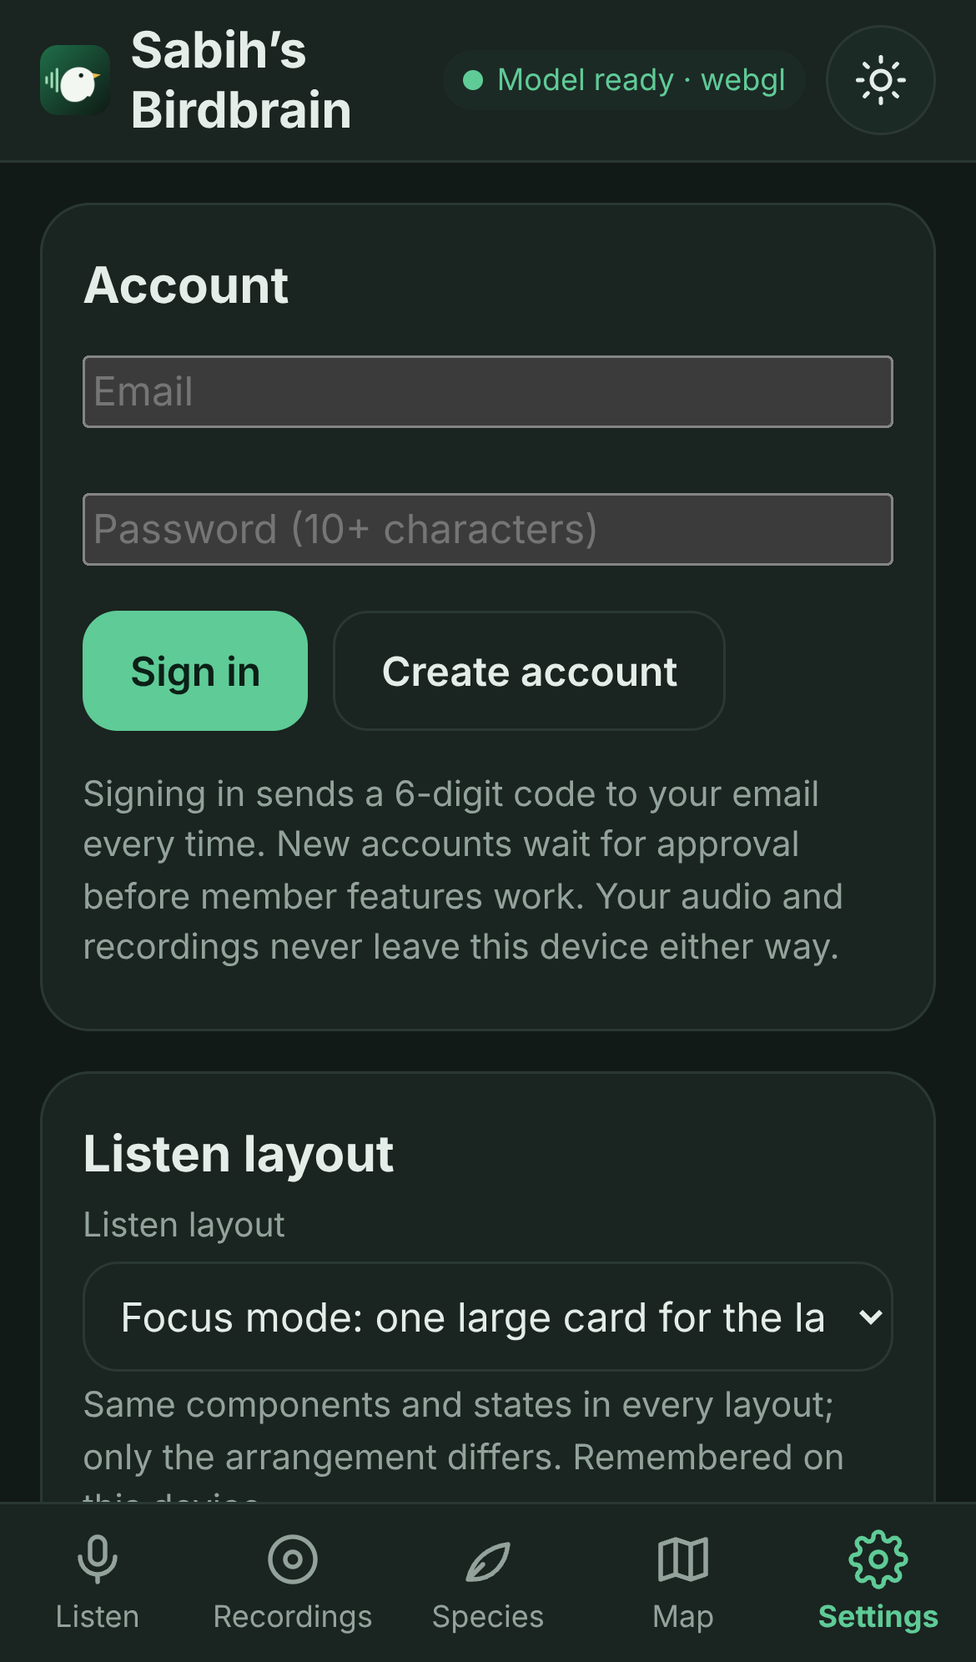
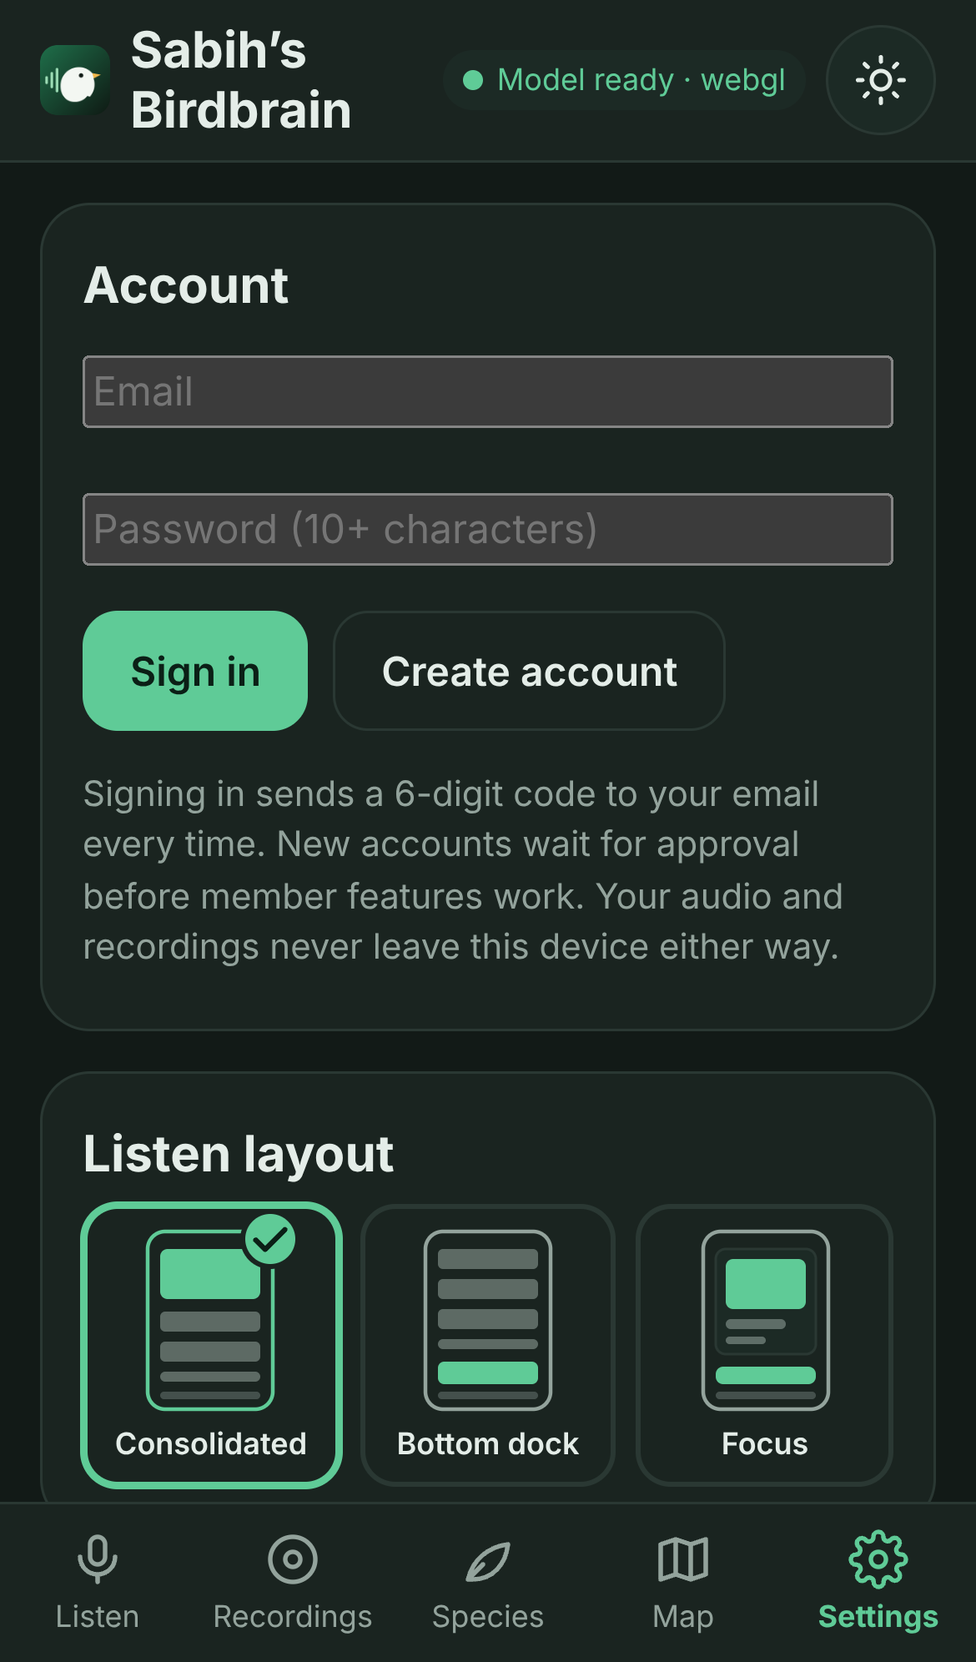
Settings: Listen layout preview-tile picker instead of the dropdown
Three tiles in one row (Consolidated, Bottom dock, Focus), each a 52×73 px
phone wireframe (inline SVG coloured only through theme tokens) plus the
layout name. The selected tile has a 3 px accent border and a check badge;
a tap switches immediately and is remembered. role="radiogroup"/"radio"
with aria-checked, roving tabindex, arrow keys with wrap-around, Home/End,
Space/Enter, 3 px --focus ring, tiles ≥ 44 px.

Height budget: the old dropdown card measured 210.59 px at 375 px on main
(efc0a2a); the picker card is 183.4 px. A Playwright test records the
baseline, asserts ≤ 1.5× it, and checks the Settings view and tiles stay
inside 320 px. The old dropdown and its helper text are gone.
DESIGN_GUIDE.md §6, DECISIONS.md #44 and the Settings screenshots in both
themes are updated.

Claude-Session: https://claude.ai/code/session_01GTz5a5AnivyyHUJ7oDDh1k

Changed region(s): [[0.0615, 0.7159, 0.8615, 0.9026]]

diff --git a/src/ui/components/layout-picker.ts b/src/ui/components/layout-picker.ts
@@ -1,0 +1,126 @@
+import type { ListenLayout } from '../../app/settings';
+import { el } from '../dom';
+
+/**
+ * Settings → Listen layout: three preview tiles in one row (Consolidated, Bottom dock, Focus),
+ * each a small phone wireframe plus the layout name. Replaces the dropdown (DECISIONS.md #44).
+ *
+ * The group is a radiogroup of radio buttons: the selected tile has aria-checked="true" and
+ * tabindex 0, the others tabindex -1 (roving tabindex); Left/Right and Up/Down move the
+ * selection, Space/Enter select the focused tile, and a tap switches at once.
+ * The wireframes are inline SVG coloured only through CSS classes and theme tokens, so they
+ * work in both themes and need no style attributes (the CSP has no 'unsafe-inline').
+ */
+
+/** `label` is the visible text (may hold a soft hyphen for 320 px screens); `name` is the accessible one. */
+export const LAYOUT_OPTIONS: ReadonlyArray<{ value: ListenLayout; name: string; label?: string; description: string }> = [
+  { value: 'consolidated', name: 'Consolidated', label: 'Consoli\u00ADdated', description: 'Panel on top, results below' },
+  { value: 'dock', name: 'Bottom dock', description: 'Results fill the screen, controls above the tabs' },
+  { value: 'focus', name: 'Focus', description: 'One large card for the latest bird' },
+];
+
+/** Phone wireframes (52×73 viewBox). Classes are coloured in styles.css: wf-frame, wf-panel, wf-row, wf-tabs. */
+const WIREFRAMES: Record<ListenLayout, string> = {
+  // Control panel block on top, result rows below, tab bar at the bottom.
+  consolidated:
+    '<rect class="wf-frame" x="1" y="1" width="50" height="71" rx="7"/>' +
+    '<rect class="wf-panel" x="6" y="8" width="40" height="20" rx="3"/>' +
+    '<rect class="wf-row" x="6" y="33" width="40" height="8" rx="2"/>' +
+    '<rect class="wf-row" x="6" y="45" width="40" height="8" rx="2"/>' +
+    '<rect class="wf-row" x="6" y="57" width="40" height="4" rx="2"/>' +
+    '<rect class="wf-tabs" x="6" y="65" width="40" height="3" rx="1.5"/>',
+  // Result rows filling the screen, a control bar just above the tab bar.
+  dock:
+    '<rect class="wf-frame" x="1" y="1" width="50" height="71" rx="7"/>' +
+    '<rect class="wf-row" x="6" y="8" width="40" height="8" rx="2"/>' +
+    '<rect class="wf-row" x="6" y="20" width="40" height="8" rx="2"/>' +
+    '<rect class="wf-row" x="6" y="32" width="40" height="8" rx="2"/>' +
+    '<rect class="wf-row" x="6" y="44" width="40" height="4" rx="2"/>' +
+    '<rect class="wf-panel" x="6" y="53" width="40" height="9" rx="2.5"/>' +
+    '<rect class="wf-tabs" x="6" y="65" width="40" height="3" rx="1.5"/>',
+  // One large card (photo block and two text lines) with a big button under it.
+  focus:
+    '<rect class="wf-frame" x="1" y="1" width="50" height="71" rx="7"/>' +
+    '<rect class="wf-card" x="6" y="8" width="40" height="42" rx="4"/>' +
+    '<rect class="wf-panel" x="10" y="12" width="32" height="20" rx="3"/>' +
+    '<rect class="wf-row" x="10" y="36" width="24" height="4" rx="2"/>' +
+    '<rect class="wf-row" x="10" y="43" width="16" height="3" rx="1.5"/>' +
+    '<rect class="wf-panel" x="6" y="55" width="40" height="7" rx="3"/>' +
+    '<rect class="wf-tabs" x="6" y="65" width="40" height="3" rx="1.5"/>',
+};
+
+const CHECK = '<svg viewBox="0 0 24 24" aria-hidden="true"><path d="M5 12.5l4.5 4.5L19 7.5"/></svg>';
+
+export interface LayoutPicker {
+  el: HTMLElement;
+  /** Reflect a value chosen elsewhere (settings change) without emitting. */
+  sync(value: ListenLayout): void;
+}
+
+export function layoutPicker(initial: ListenLayout, onChange: (value: ListenLayout) => void): LayoutPicker {
+  let current: ListenLayout = initial;
+  const tiles = new Map<ListenLayout, HTMLButtonElement>();
+
+  const render = () => {
+    for (const [value, tile] of tiles) {
+      const on = value === current;
+      tile.setAttribute('aria-checked', on ? 'true' : 'false');
+      tile.tabIndex = on ? 0 : -1;
+      tile.classList.toggle('selected', on);
+    }
+  };
+
+  const choose = (value: ListenLayout, focus: boolean) => {
+    if (value !== current) {
+      current = value;
+      render();
+      onChange(value);
+    }
+    if (focus) tiles.get(value)?.focus();
+  };
+
+  const group = el('div', { class: 'layout-picker', role: 'radiogroup', 'aria-label': 'Listen layout', 'data-testid': 'listen-layout' });
+  for (const opt of LAYOUT_OPTIONS) {
+    const art = el('span', { class: 'layout-tile-art', 'aria-hidden': 'true' });
+    art.innerHTML = `<svg class="layout-wireframe" viewBox="0 0 52 73" width="52" height="73" focusable="false">${WIREFRAMES[opt.value]}</svg><span class="layout-tile-check">${CHECK}</span>`;
+    const tile = el(
+      'button',
+      {
+        type: 'button',
+        class: 'layout-tile',
+        role: 'radio',
+        'aria-checked': 'false',
+        'aria-label': `${opt.name}: ${opt.description}`,
+        'data-layout': opt.value,
+        'data-testid': `listen-layout-${opt.value}`,
+      },
+      art,
+      el('span', { class: 'layout-tile-name' }, opt.label ?? opt.name),
+    );
+    tile.addEventListener('click', () => choose(opt.value, true));
+    tiles.set(opt.value, tile);
+    group.appendChild(tile);
+  }
+
+  group.addEventListener('keydown', (e) => {
+    const step = e.key === 'ArrowRight' || e.key === 'ArrowDown' ? 1 : e.key === 'ArrowLeft' || e.key === 'ArrowUp' ? -1 : e.key === 'Home' ? -Infinity : e.key === 'End' ? Infinity : 0;
+    if (step === 0) return;
+    e.preventDefault();
+    const order = LAYOUT_OPTIONS.map((o) => o.value);
+    // Step from the focused tile (normally the selected one, since selecting moves focus).
+    const from = (e.target as HTMLElement).closest<HTMLElement>('.layout-tile')?.dataset.layout as ListenLayout | undefined;
+    const i = Math.max(0, order.indexOf(from ?? current));
+    const next = step === -Infinity ? 0 : step === Infinity ? order.length - 1 : (i + step + order.length) % order.length;
+    choose(order[next], true);
+  });
+
+  render();
+  return {
+    el: group,
+    sync(value) {
+      if (value === current) return;
+      current = value;
+      render();
+    },
+  };
+}

diff --git a/e2e/app.spec.ts b/e2e/app.spec.ts
@@ -201,6 +201,87 @@ test('no horizontal scrolling and the primary control visible at 320, 375, 390 a
   }
 });
 
+/**
+ * Height of the previous Settings → "Listen layout" card (h2 + dropdown + two-line helper text),
+ * measured with getBoundingClientRect() at a 375 px viewport on main (commit efc0a2a) before the
+ * preview-tile picker replaced it. The picker's card must stay within 1.5× of it (DECISIONS.md #44).
+ */
+const BASELINE_DROPDOWN_CARD_HEIGHT_PX = 210.59;
+
+test('Listen layout picker: tiles select and persist, arrow keys move, height budget, no overflow at 320 px', async ({ browser }) => {
+  const context = await browser.newContext({ viewport: { width: 375, height: 740 }, deviceScaleFactor: 2, isMobile: true, hasTouch: true });
+  const page = await context.newPage();
+  await page.goto('./#/settings');
+  const group = page.getByTestId('listen-layout');
+  await expect(group).toHaveAttribute('role', 'radiogroup');
+  await expect(page.locator('select[aria-label="Listen layout"]')).toHaveCount(0);
+  const tiles = group.getByRole('radio');
+  await expect(tiles).toHaveCount(3);
+  // Visible names (the first may carry a soft hyphen for 320 px) and clean accessible names.
+  await expect(tiles).toHaveText([/^Consoli\u00AD?dated$/, 'Bottom dock', 'Focus']);
+  for (const name of [/^Consolidated: /, /^Bottom dock: /, /^Focus: /]) await expect(group.getByRole('radio', { name })).toHaveAttribute('aria-checked', /true|false/);
+  // Default selection and roving tabindex: the checked tile is the only one in the tab order.
+  await expect(page.getByTestId('listen-layout-consolidated')).toHaveAttribute('aria-checked', 'true');
+  await expect(page.getByTestId('listen-layout-consolidated')).toHaveAttribute('tabindex', '0');
+  await expect(page.getByTestId('listen-layout-dock')).toHaveAttribute('tabindex', '-1');
+  // Height budget: the whole card is no taller than 1.5× the old dropdown card at 375 px.
+  const card = group.locator('xpath=ancestor::section[contains(@class, "card")][1]');
+  const cardBox = await card.boundingBox();
+  expect(cardBox!.height).toBeLessThanOrEqual(1.5 * BASELINE_DROPDOWN_CARD_HEIGHT_PX);
+  // Every tile is a 44 px target and fits inside the viewport in one row.
+  const firstTile = await page.getByTestId('listen-layout-consolidated').boundingBox();
+  for (const l of ['consolidated', 'dock', 'focus']) {
+    const b = await page.getByTestId(`listen-layout-${l}`).boundingBox();
+    expect(b!.width, `${l} width`).toBeGreaterThanOrEqual(44);
+    expect(b!.height, `${l} height`).toBeGreaterThanOrEqual(44);
+    expect(b!.x + b!.width, `${l} inside 375px`).toBeLessThanOrEqual(375);
+    expect(b!.y, `${l} in one row`).toBeCloseTo(firstTile!.y, 0);
+  }
+  // Tap switches at once, is written to the store and survives a reload; the Listen view uses it.
+  await page.getByTestId('listen-layout-dock').click();
+  await expect(page.getByTestId('listen-layout-dock')).toHaveAttribute('aria-checked', 'true');
+  await expect(page.getByTestId('listen-layout-consolidated')).toHaveAttribute('aria-checked', 'false');
+  expect(await page.evaluate(() => JSON.parse(localStorage.getItem('birdbrain.settings.v1') ?? '{}').listenLayout)).toBe('dock');
+  await page.reload();
+  await expect(page.getByTestId('listen-layout-dock')).toHaveAttribute('aria-checked', 'true');
+  await expect(page.getByTestId('listen-layout-dock')).toHaveAttribute('tabindex', '0');
+  // Keyboard: arrows move focus and selection with wrap-around; Space/Enter select the focused tile.
+  await page.getByTestId('listen-layout-dock').focus();
+  await page.keyboard.press('ArrowRight');
+  await expect(page.getByTestId('listen-layout-focus')).toBeFocused();
+  await expect(page.getByTestId('listen-layout-focus')).toHaveAttribute('aria-checked', 'true');
+  await page.keyboard.press('ArrowRight');
+  await expect(page.getByTestId('listen-layout-consolidated')).toBeFocused();
+  await expect(page.getByTestId('listen-layout-consolidated')).toHaveAttribute('aria-checked', 'true');
+  await page.keyboard.press('ArrowUp');
+  await expect(page.getByTestId('listen-layout-focus')).toHaveAttribute('aria-checked', 'true');
+  expect(await page.evaluate(() => JSON.parse(localStorage.getItem('birdbrain.settings.v1') ?? '{}').listenLayout)).toBe('focus');
+  await page.goto('./#/listen');
+  await expect(page.locator('.listen')).toHaveAttribute('data-layout', 'focus');
+  await context.close();
+
+  // No horizontal overflow at 320 px with the Settings tab open: the Settings content and every tile
+  // stay inside the viewport. (The document width is measured on the view, not on the root, because the
+  // sticky header's status pill alone exceeds 320 px by a few px once it reads "Model ready · wasm",
+  // a pre-existing header issue that this picker neither causes nor can fix.)
+  const narrow = await browser.newContext({ viewport: { width: 320, height: 740 }, deviceScaleFactor: 2, isMobile: true, hasTouch: true });
+  const np = await narrow.newPage();
+  await np.goto('./#/settings');
+  await expect(np.getByTestId('listen-layout')).toBeVisible();
+  const widths = await np.evaluate(() => {
+    const view = document.querySelector('main.view')!;
+    return { view: view.scrollWidth, cards: Math.max(...[...document.querySelectorAll('main.view .card')].map((c) => c.getBoundingClientRect().right)) };
+  });
+  expect(widths.view, 'settings view scrollWidth at 320px').toBeLessThanOrEqual(320);
+  expect(widths.cards, 'cards inside 320px').toBeLessThanOrEqual(320);
+  for (const l of ['consolidated', 'dock', 'focus']) {
+    const b = await np.getByTestId(`listen-layout-${l}`).boundingBox();
+    expect(b!.x + b!.width, `${l} inside 320px`).toBeLessThanOrEqual(320);
+    expect(b!.width, `${l} width at 320px`).toBeGreaterThanOrEqual(44);
+  }
+  await narrow.close();
+});
+
 for (const layout of ['consolidated', 'dock', 'focus'] as const) {
   test(`Listen layout ${layout}: ready, listening with the fake microphone, result cards, stop`, async ({ page }) => {
     await page.addInitScript((l) => {

diff --git a/src/ui/views/settings.ts b/src/ui/views/settings.ts
@@ -1,12 +1,13 @@
 import { sightingsToCsv } from '../../export/csv';
 import { downloadBlob, timestampForFilename } from '../../export/download';
 import { sightingsToGeoJson } from '../../export/geojson';
-import type { BackendPreference, ListenLayout, LocationMode, OcclusionResolution } from '../../app/settings';
+import type { BackendPreference, LocationMode, OcclusionResolution } from '../../app/settings';
 import { clearAllData, countDetections, countSightings, listSightings } from '../../storage/db';
 import { formatBytes, getStorageStatus, requestPersistentStorage } from '../../storage/quota';
 import type { View, ViewContext } from '../app';
 import { el, pct } from '../dom';
 import { accountSection } from './account';
+import { layoutPicker } from '../components/layout-picker';
 import { describeVoiceProcessing } from '../../audio/mic-constraints';
 
 export function settingsView(ctx: ViewContext): View {
@@ -34,16 +35,20 @@ export function settingsView(ctx: ViewContext): View {
     for (const f of syncs) f();
   });
 
+  // Listen layout: preview tiles (DECISIONS.md #44). A tap switches immediately; the store change is mirrored back.
+  const picker = layoutPicker(s.listenLayout, (listenLayout) => settings.update({ listenLayout }));
+  syncs.push(() => picker.sync(settings.get().listenLayout));
+
   const toggle = (label: string, key: 'autoSaveClips' | 'includeNonBird' | 'useWeek' | 'lowCut', hint?: string) => {
     const input = el('input', { type: 'checkbox', checked: s[key] });
     input.addEventListener('change', () => settings.update({ [key]: input.checked }));
     return el('label', { class: 'switch' }, el('span', null, label, hint ? el('div', { class: 'small muted' }, hint) : null), input);
   };
 
-  const select = <T extends string>(label: string, key: 'locationMode' | 'backend' | 'occlusionResolution' | 'listenLayout', options: Array<[T, string]>, hint?: string) => {
+  const select = <T extends string>(label: string, key: 'locationMode' | 'backend' | 'occlusionResolution', options: Array<[T, string]>, hint?: string) => {
     const sel = el('select', { 'aria-label': label });
     for (const [v, text] of options) sel.appendChild(el('option', { value: v, selected: s[key] === v }, text));
-    sel.addEventListener('change', () => settings.update({ [key]: sel.value as LocationMode & BackendPreference & OcclusionResolution & ListenLayout }));
+    sel.addEventListener('change', () => settings.update({ [key]: sel.value as LocationMode & BackendPreference & OcclusionResolution }));
     return el('div', { class: 'field' }, el('label', null, label), sel, hint ? el('div', { class: 'small muted' }, hint) : null);
   };
 
@@ -125,16 +130,7 @@ export function settingsView(ctx: ViewContext): View {
       'section',
       { class: 'card' },
       el('h2', null, 'Listen layout'),
-      select(
-        'Listen layout',
-        'listenLayout',
-        [
-          ['consolidated', 'Consolidated (default): panel on top, results below'],
-          ['dock', 'Bottom dock: results fill the screen, controls above the tabs'],
-          ['focus', 'Focus mode: one large card for the latest bird'],
-        ],
-        'Same components and states in every layout; only the arrangement differs. Remembered on this device.',
-      ),
+      picker.el,
     ),
     el(
       'section',

diff --git a/src/styles.css b/src/styles.css
@@ -166,6 +166,25 @@ canvas.timeline { width: 100%; height: 120px; display: block; }
 .field input[type=number], .field input[type=date], .field select { min-height: 44px; padding: 8px 10px; border-radius: var(--radius-control); border: 1px solid var(--border); background: var(--surface); }
 .switch { display: flex; align-items: center; justify-content: space-between; gap: 12px; min-height: 48px; }
 .switch input { width: 24px; height: 24px; accent-color: var(--accent); }
+/* Settings → Listen layout: three preview tiles in one row (DECISIONS.md #44). Each tile is a
+   radio: a 52×73 phone wireframe drawn with theme tokens plus the name. The selected tile gets a
+   3 px accent border (2 px border + 1 px ring, so nothing shifts) and a check badge, never colour alone. */
+.layout-picker { display: flex; gap: var(--space-2); align-items: stretch; margin: var(--space-1) 0 0; }
+.layout-tile { flex: 1 1 0; min-width: 0; min-height: 44px; display: flex; flex-direction: column; align-items: center; gap: 6px; padding: 8px 4px; border: 2px solid var(--line); border-radius: var(--radius-control); background: var(--surface); color: var(--text); font-size: var(--text-xs); font-weight: var(--weight-semibold); line-height: 1.2; text-align: center; }
+.layout-tile[aria-checked="true"] { border-color: var(--accent); box-shadow: 0 0 0 1px var(--accent); }
+.layout-tile:focus-visible { outline: 3px solid var(--focus); outline-offset: 3px; }
+.layout-tile-art { position: relative; display: block; width: 52px; height: 73px; }
+.layout-wireframe { display: block; width: 52px; height: 73px; }
+.layout-wireframe .wf-frame { fill: var(--card); stroke: var(--muted); stroke-width: 1.5; }
+.layout-wireframe .wf-panel { fill: var(--accent); }
+.layout-wireframe .wf-card { fill: var(--surface-2); stroke: var(--line); stroke-width: 1; }
+.layout-wireframe .wf-row { fill: var(--muted); opacity: 0.55; }
+.layout-wireframe .wf-tabs { fill: var(--muted); opacity: 0.35; }
+.layout-tile[aria-checked="true"] .layout-wireframe .wf-frame { stroke: var(--accent); }
+.layout-tile-check { display: none; position: absolute; top: -6px; right: -8px; width: 20px; height: 20px; border-radius: 50%; background: var(--accent); color: var(--on-accent); box-shadow: 0 0 0 2px var(--surface); }
+.layout-tile-check svg { width: 20px; height: 20px; fill: none; stroke: currentColor; stroke-width: 2.5; stroke-linecap: round; stroke-linejoin: round; }
+.layout-tile[aria-checked="true"] .layout-tile-check { display: block; }
+.layout-tile-name { max-width: 100%; hyphens: manual; } /* "Consoli\u00ADdated" breaks at its soft hyphen only when the tile is too narrow (320 px). */
 .map { height: 60vh; min-height: 320px; border-radius: var(--radius-control); overflow: hidden; }
 /* Map controls and attribution follow the theme; the tiles themselves stay as OSM serves them. */
 .leaflet-bar a, .leaflet-bar a:hover, .leaflet-control-attribution { background: var(--card); color: var(--text); border-color: var(--line); }

diff --git a/DECISIONS.md b/DECISIONS.md
@@ -687,3 +687,39 @@ Sabih's approval and a baseline check of the other sites after every reload.
 - **Not verified:** on a phone (swipe, safe areas with the dock, real
   microphone states); the "paused" state needs a real backgrounding.
 
+## 44. Listen layout picker: preview tiles instead of a dropdown
+
+(Numbered 44 while entries 41–43 are written on other branches; may be
+renumbered at merge.)
+
+- **Decision:** Settings → Listen layout is a row of three preview tiles
+  (Consolidated, Bottom dock, Focus) instead of a `<select>` with a helper
+  sentence. Each tile (`src/ui/components/layout-picker.ts`) is a button with
+  a 52×73 phone wireframe (inline SVG, coloured through CSS classes and the
+  theme tokens `--muted`, `--accent`, `--surface-2`, `--card`, so it works in
+  both themes without style attributes under the strict CSP) and the layout
+  name. A tap switches immediately through `settings.update({ listenLayout })`
+  and the store change is mirrored back into the tiles.
+- **Selected state:** 3 px accent border (2 px border plus a 1 px ring, so
+  nothing shifts) and a check badge on the wireframe; never colour alone.
+- **Accessibility:** `role="radiogroup"` / `role="radio"` with
+  `aria-checked`; roving tabindex (selected tile 0, others −1); Left/Right
+  and Up/Down move focus and selection with wrap-around, Home/End jump,
+  Space/Enter select (native button activation); 3 px `--focus` ring; tiles
+  are at least 44 px on both sides (about 102×119 px at 375 px).
+- **Height budget:** the card must stay within 1.5× the dropdown card it
+  replaced. Measured on main (efc0a2a) at a 375 px viewport the old card was
+  210.59 px (h2 + 44 px select + a two-line hint); the picker card is
+  183.4 px (tiles 98×113 px). `e2e/app.spec.ts` records that baseline as a
+  constant and asserts the new card ≤ 1.5× it. At 320 px the test asserts
+  the Settings view and every tile stay inside the viewport (tiles 79 px
+  wide; "Consolidated" carries a soft hyphen, `hyphens: manual`, so it breaks
+  cleanly there instead of mid-word). The check is on `main.view`, not the
+  document root, because the sticky header's status pill ("Model ready ·
+  wasm") alone exceeds 320 px by about 5 px once the model has loaded, a
+  pre-existing header issue outside this change.
+- **Removed:** the dropdown, its helper text ("Same components and states in
+  every layout…"); the layout descriptions now live in each tile's
+  `aria-label` and in DESIGN_GUIDE.md §6.
+- **Not verified:** on a phone or with VoiceOver; checked in Chromium with
+  Playwright and in both theme screenshots (`docs/screenshots/settings-*.png`).

diff --git a/docs/DESIGN_GUIDE.md b/docs/DESIGN_GUIDE.md
@@ -129,6 +129,11 @@ There are two themes. **Dark is the default**, whatever the phone's own light/da
 
 The user picks a layout in **Settings → Listen layout**, and the choice is remembered on the device. **The default is Consolidated.** All three share the same components and states. Only their arrangement differs.
 
+**The picker.** Three preview tiles in one row, not a dropdown: Consolidated, Bottom dock, Focus. Each tile is a small generic phone wireframe (inline SVG, 52×73 px, drawn only from theme tokens so it reads in both themes: frame and result rows in `--muted`, control block in `--accent`, card in `--surface-2`) with the layout name under it. The wireframes hint at the arrangement: a control block on top with rows below (Consolidated), rows filling the screen with a control bar just above the tab bar (Bottom dock), one large card (Focus).
+- **Selected tile:** a 3 px `--accent` border plus a check-mark badge in the top-right corner, so the choice is never shown by colour alone. Tapping a tile switches at once and is remembered.
+- **Accessibility:** the row is `role="radiogroup"` and each tile `role="radio"` with `aria-checked`; roving tabindex (the selected tile is 0, the others −1); Left/Right and Up/Down move focus and selection with wrap-around, Home/End jump to the ends, Space/Enter select; the focus ring is the usual 3 px `--focus`; every tile is at least 44 px on both sides.
+- **Height budget:** the whole card is at most 1.5× the height of the dropdown card it replaced (210.6 px at 375 px, so ≤ 316 px; the picker measures about 183 px). At 320 px the tiles stay inside the viewport ("Consolidated" may break at its soft hyphen). Both are checked by Playwright.
+
 1. **Consolidated (default).**
    - **Ready:** title, short hint, mic button, context chips, then the collapsed "How it works" and "Recent sightings" rows.
    - **Listening:** the panel at the top, result cards below, newest first.
